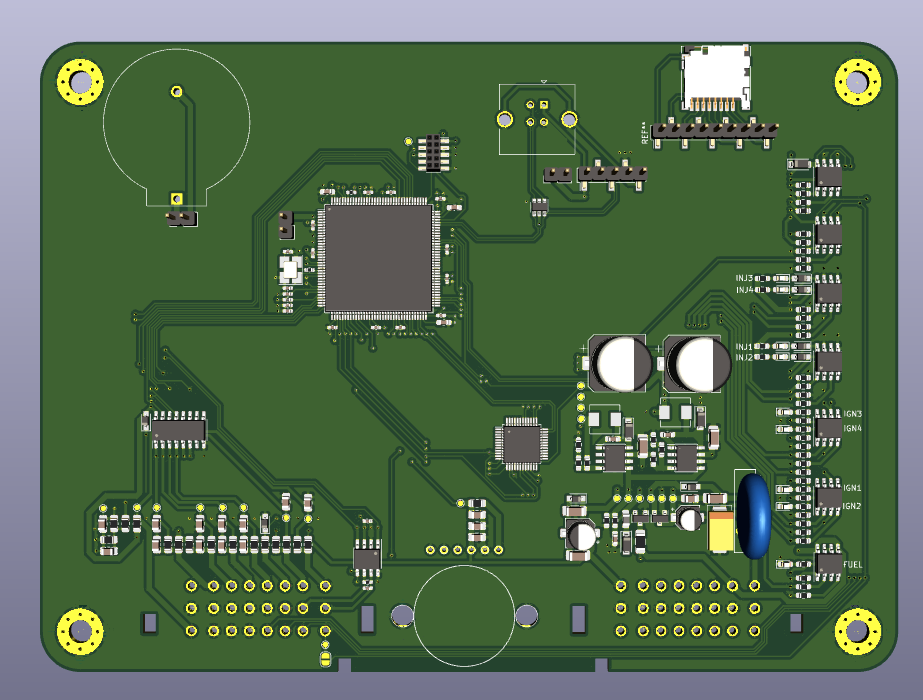
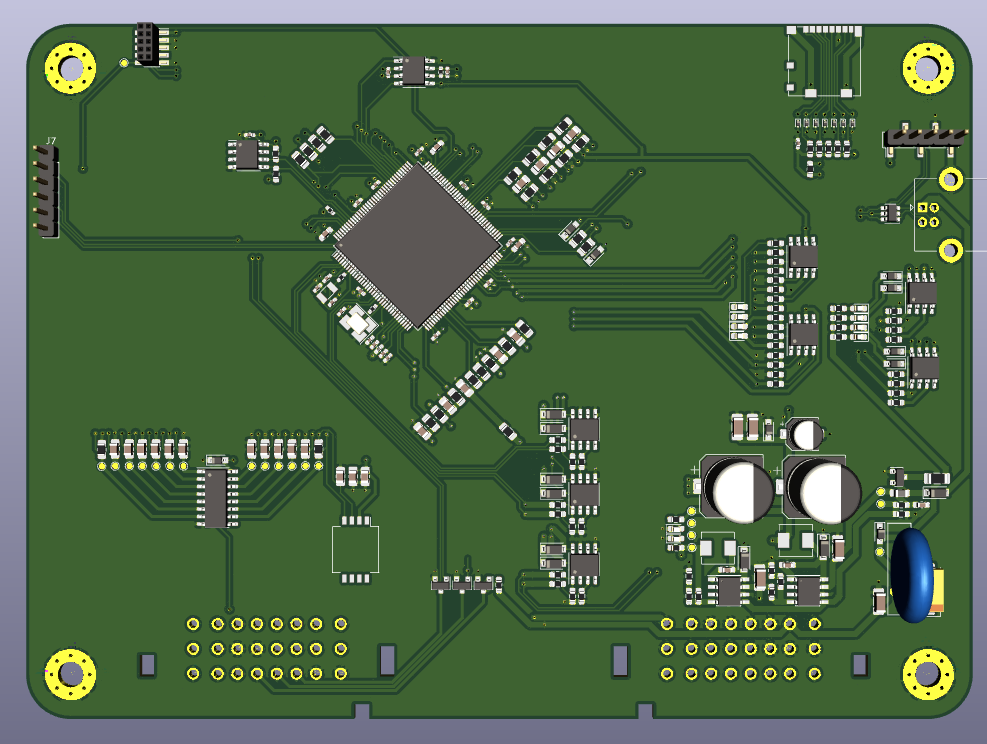
Update README.md and board image

diff --git a/README.md b/README.md
@@ -9,10 +9,10 @@
 * 1 each CAM and Crank input
 * 1 wire Idle
 * PWM boost
-* [PLANNED] AC control
-* [PLANNED] Additional input/outputs
+* AC control
+* 4 additional high current outputs
+* SD card for logginglogging
 * [PLANNED] RTC w/ battery backup
-* [PLANNED] SD card logging
 
 ## Schematic TODO
 
